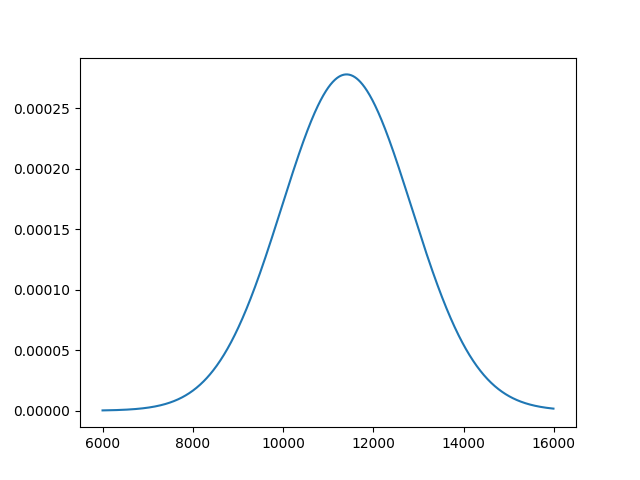
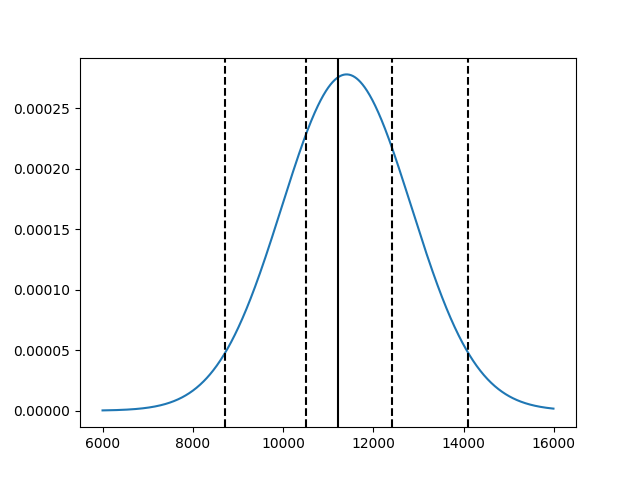
write up results, update plots with CI, gtruth lines

diff --git a/task1_visualization_calibration.py b/task1_visualization_calibration.py
@@ -9,7 +9,7 @@ forecast_reader = csv.reader(open("flu_fct_processed.csv", "r"), delimiter=',')
 
 dates = None
 methods = []
-forecasts = []
+raw_forecasts = []
 gtruth = []
 
 for (i, row) in enumerate(forecast_reader):
@@ -20,7 +20,7 @@ for (i, row) in enumerate(forecast_reader):
             gtruth = list(map(float, row[1:]))
         else:
             methods.append(row[0])
-            forecasts.append(list(map(float, row[1:])))
+            raw_forecasts.append(list(map(float, row[1:])))
 
 K = len(methods)
 T = len(dates)
@@ -59,10 +59,19 @@ def plot_pdf(sigma, w, x_axis):
         pdf = 0
         for k in range(K):
             # print(a[k] + b[k] * forecasts[k][-1])
-            pdf += w[k] * norm.pdf(X, a[k] + b[k] * forecasts[k][-1], curr_sigma)
+            pdf += w[k] * norm.pdf(X, a[k] + b[k] * raw_forecasts[k][-1], curr_sigma)
         return pdf
 
+    pdf = lambda x: ensemble_pdf(sigma, x)
+
     plt.plot(x_axis, ensemble_pdf(sigma, x_axis))
+
+    for u in [.5, .95]:
+        l, r = get_CI(u, sigma)
+        plt.axvline(x=l, color="black", linestyle="dashed")
+        plt.axvline(x=r, color="black", linestyle="dashed")
+    plt.axvline(x=gtruth[-1], color="black")
+
     plt.show()
 
 EM_iters = 10
@@ -77,7 +86,7 @@ w = w_from_iters[EM_iters]
 
 def sample(sigma):
     k = np.random.choice(list(range(K)), p=w)
-    mean = forecasts[k][-1]
+    mean = a[k] + b[k] * raw_forecasts[k][-1]
     return np.random.normal(mean, sigma)
 
 def get_CI(CI_size, sigma):
@@ -92,7 +101,7 @@ def get_CI(CI_size, sigma):
     end_index = n_samples - start_index
     return samples[start_index], samples[end_index]
 
-print("BEFORE CALIBRATION:")
+print("BEFORE CALIBRATION: sigma=", sigma)
 print("MIDDLE 50%:", get_CI(.5, sigma))
 print("MIDDLE 95%:", get_CI(.95, sigma))
 plot_pdf(sigma, w, np.arange(6000, 16000, 10))
@@ -104,7 +113,7 @@ plot_pdf(sigma, w, np.arange(6000, 16000, 10))
 def ensemble_cdf(curr_sigma, X):
     cdf = 0
     for k in range(K):
-        cdf += w[k] * norm.cdf(X, a[k] + b[k] * forecasts[k][-1], curr_sigma)
+        cdf += w[k] * norm.cdf(X, a[k] + b[k] * raw_forecasts[k][-1], curr_sigma)
     return cdf
 
 def CRPS(sigma, x):
@@ -140,10 +149,13 @@ while hi - lo > 1:
 
 calibrated_sigma = lo
 
-print("AFTER CALIBRATION:")
+print("AFTER CALIBRATION: calibrated_sigma=", calibrated_sigma)
 print("MIDDLE 50%:", get_CI(.5, calibrated_sigma))
 print("MIDDLE 95%:", get_CI(.95, calibrated_sigma))
-plot_pdf(lo, w, np.arange(10000, 12500, 10))
+plot_pdf(calibrated_sigma, w, np.arange(10000, 12500, 10))
+
+print("GROUND TRUTH on " + dates[-1] + ":")
+print(gtruth[-1])
 
 #
 # plt.plot(x_axis, list(map(lambda s: CRPS(s, gtruth[-1]), x_axis)))
